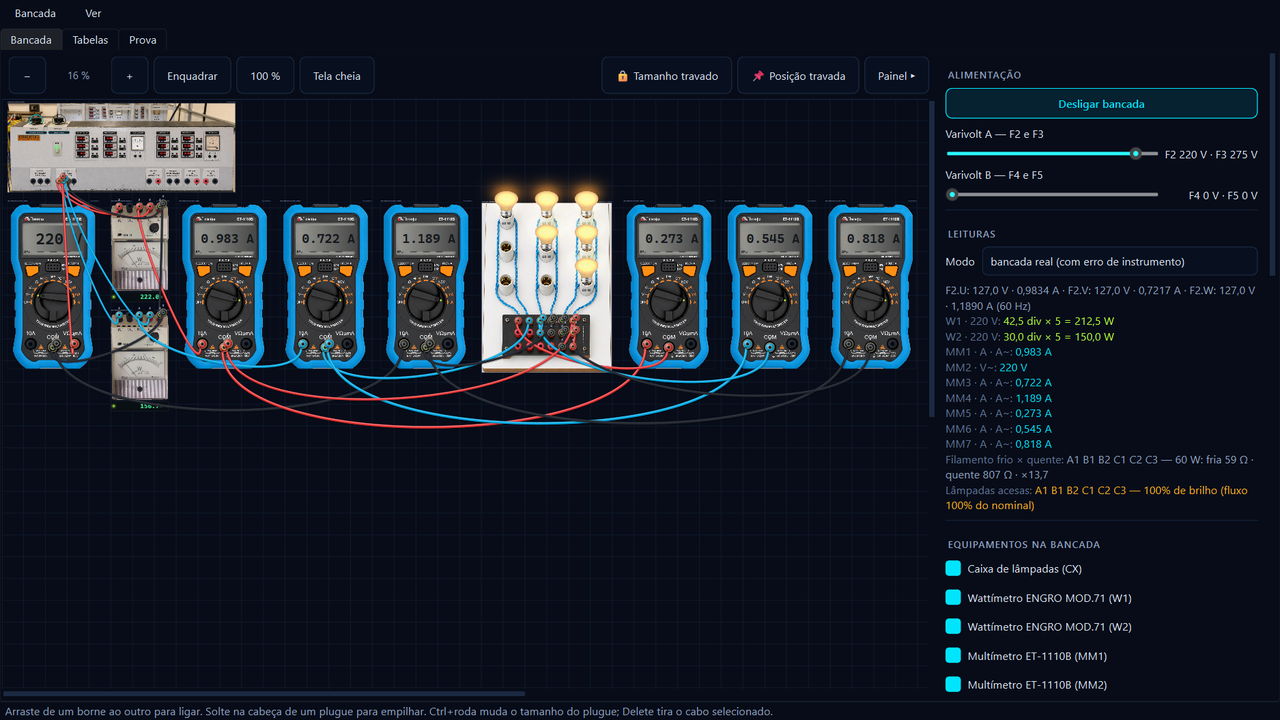
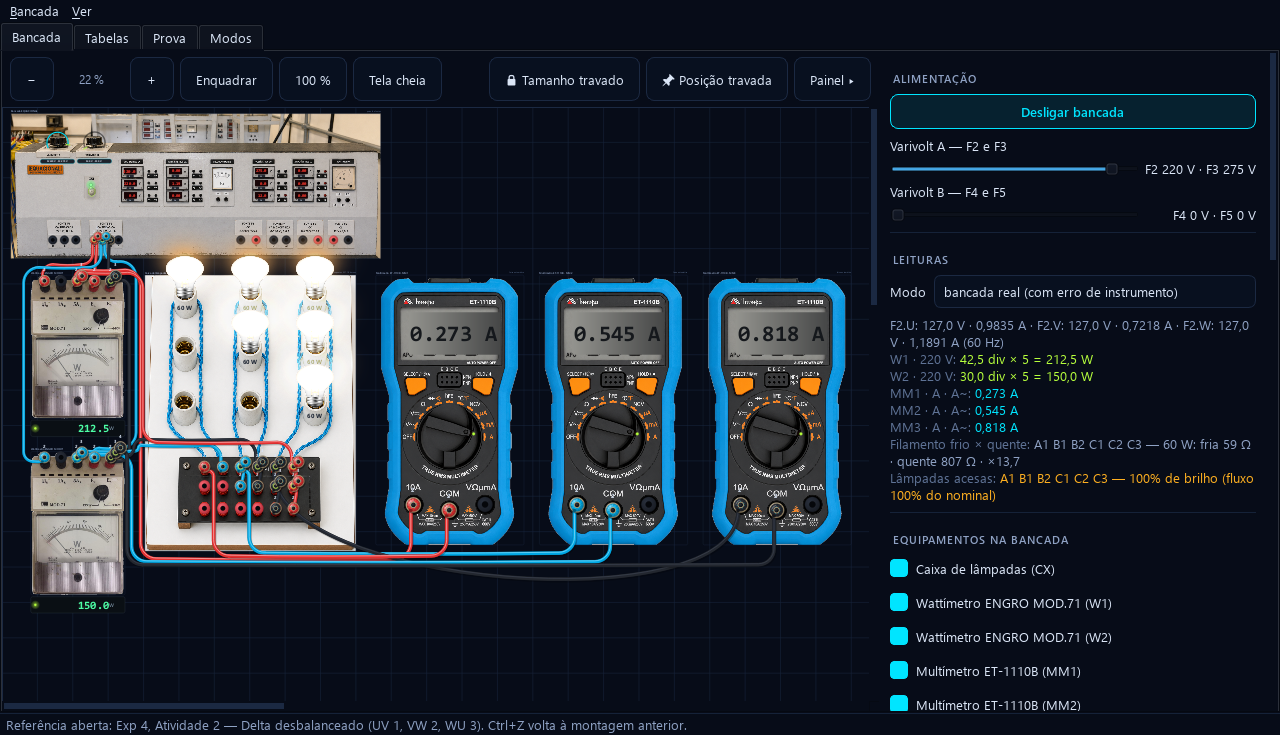
README com as novidades da 1.18.0: treino do zero, referências e a mesa arrumada
As duas capturas saem da 1.18.0 publicada. A principal é a referência da
Atividade 2 do Exp 4, com a mesa na ordem da figura e os cabos pelos
corredores — a antiga era de antes da aba Modos existir. A da aba Modos
mostra as três colunas e o progresso: o treino da captura antiga começava
com o delta montado, e na 1.18.0 o M09 começa da bancada vazia. O tamanho em
disco foi remedido na instalação da 1.18.0 (96 MB).

diff --git a/README.md b/README.md
@@ -4,13 +4,15 @@ A bancada do **Laboratório de Sistemas de Energia Elétrica (ENE0073)** na sua
 máquina: os mesmos equipamentos, os mesmos bornes, os mesmos instrumentos — e
 os cabos você pluga um a um, como faz na aula.
 
-![A bancada montada: delta desequilibrado do Experimento 4, energizado](img/bancada.png)
+![A referência da Atividade 2 do Experimento 4 — delta desbalanceado, energizado —, com os aparelhos na ordem da figura e os cabos pelos vãos entre eles](img/bancada.png)
 
 **[⬇ Baixar a última versão](../../releases/latest)** · Windows 64 bits · não
 pede administrador · funciona sem internet
 
-**Novo na 1.17.0:** a aba **Modos**, com 71 exercícios de bancada para a prova
-dos Experimentos 3 e 4 — [o que mudou](../../releases/tag/v1.17.0).
+**Novo na 1.18.0:** a aba **Modos** refeita — 35 dos 71 modos começam com a
+bancada vazia e os instrumentos numa prateleira, as montagens dos roteiros
+viram referência para comparar com a sua, e os cabos das montagens prontas
+passam pelos corredores entre os aparelhos — [o que mudou](../../releases/tag/v1.18.0).
 
 ---
 
@@ -35,7 +37,9 @@ pode dá exatamente o que daria na mesa.
 cabo por cabo como o desenho manda — estrela, delta, equilibrado,
 desequilibrado, neutro aterrado, correção de fator de potência, os
 transformadores. Serve para estudar a figura e serve para conferir a sua
-própria montagem contra ela.
+própria montagem contra ela. Nas dos Experimentos 3 e 4, os aparelhos ficam na
+ordem de leitura da figura, sem um cobrir o outro, e os cabos passam pelos vãos
+entre eles em vez de por cima de visor, mostrador ou bocal.
 
 **Medir.** Os multímetros são ET-1110B com as faixas do manual: a leitura sai
 com a resolução da faixa, mostra `OL` quando estoura e tem a incerteza
@@ -70,17 +74,37 @@ wattímetro ficou com uma bobina só.
 **Treinar para a prova dos Experimentos 3 e 4.** A aba *Modos* traz **71
 exercícios de bancada** em oito grupos — medições, identificação das fases,
 montagens, wattímetros, fator de potência, diagnóstico, tabelas e um simulado
-da P2. O exercício prepara a mesma bancada, diz o objetivo, e a correção vem
-quando você pede: ela olha o que cada aparelho está medindo pela ligação, e
-não pelo número do visor — um amperímetro antes da bifurcação do delta recebe
-«isso é corrente de linha». Nada da resposta aparece antes da tentativa. No
-guiado há dicas em degraus, até uma demonstração que depois se desfaz, e as
-marcas na mesa dizem o que marcam por cor, traço e ícone; no prático e no
-simulado — onze tarefas sorteadas, com a nota só na entrega —, não há dica.
-As leituras vão para um caderno com o antes e o depois, e o progresso fica
-guardado por habilidade.
+da P2. Treinar é montar: 35 deles começam com a bancada limpa e desligada —
+varivolts no zero, nenhum cabo, lâmpadas na bandeja, os multímetros da mesa em
+OFF —, e os instrumentos saem de uma prateleira no quadro do treino, por
+clique ou arrastando até a mesa. Você monta a carga, instala o medidor, regula
+a fonte e liga. Os outros começam com o circuito pronto, porque ali a montagem
+é a pergunta: os ramos a identificar, o erro plantado, a leitura a
+interpretar.
 
-![Um treino da aba Modos: medir a corrente de fase de um ramo do delta, com a dica que separa os cabos de linha dos cabos dos ramos](img/modos.png)
+A correção vem quando você pede, e olha o que cada aparelho está medindo pela
+ligação, e não pelo número do visor — um amperímetro antes da bifurcação do
+delta recebe «isso é corrente de linha». Nada da resposta aparece antes da
+tentativa. No guiado há dicas em degraus, até uma demonstração que depois se
+desfaz, e as marcas na mesa dizem o que marcam por cor, traço e ícone; no
+prático e no simulado — onze tarefas sorteadas, com a nota só na entrega —,
+não há dica. As leituras vão para um caderno com o antes e o depois.
+
+O progresso é cobertura de habilidades, não probabilidade de aprovação: cada
+item do Exp 3 e do Exp 4 aparece como não iniciado, em treino, consistente ou
+dominado, ao lado de onde você está errando e do próximo treino — com o botão
+que abre exatamente a variante que falta. Depois de entregar, **Comparar com
+referência** alterna a mesa entre a sua montagem e a do roteiro; e a última
+categoria da lista abre na bancada a montagem de cada atividade (Exp 3 e Exp 4,
+Atividades 1 a 3) só com os medidores do que se quer medir.
+
+«Analisar montagem com IA», nos modos do zero e fora da prova, passa cada
+conclusão por um validador que confere contra o que a bancada mede: «está tudo
+correto» numa montagem errada não aparece. A consulta à Maritaca de verdade ainda não foi
+conferida; sem chave — o caso de quem só instala —, quem responde é a
+validação elétrica local, e a tela diz isso.
+
+![A aba Modos: o modo pelo nome, o objetivo sorteado pela semente e, à direita, o progresso por item, onde se está errando e o próximo treino](img/modos.png)
 
 **Treinar do jeito difícil.** A aba *Prova* sorteia uma prova prática e corrige
 com nota; o *treino de diagnóstico* esconde um defeito na montagem e pede que
@@ -90,7 +114,8 @@ você o encontre medindo — sem olhar o painel, como na bancada.
 osciloscópio, o ensaio que identifica as fases — tire uma lâmpada com a
 bancada ligada e ele diz, pelas leituras, entre quais fases ela estava (na
 bancada real, só com autorização do professor) —, uma bandeja para as
-lâmpadas que saem do bocal, montagem salva em arquivo `.juan` e relatório em
+lâmpadas que saem do bocal, a lâmpada que se põe rosqueando — o contato só
+fecha quando ela assenta —, montagem salva em arquivo `.juan` e relatório em
 PDF.
 
 ## O que ele cobre
@@ -127,7 +152,7 @@ Vá em **[Releases](../../releases/latest)** e pegue um dos dois:
 | `SimuladorLABSEP-X.Y.Z-portatil.zip` | roda sem instalar — descompacte e abra o `.exe` |
 
 A instalação é na pasta do usuário: **não pede administrador** e não mexe no
-sistema. São cerca de 94 MB em disco. Instalar por cima de uma versão anterior
+sistema. São cerca de 96 MB em disco. Instalar por cima de uma versão anterior
 preserva ajustes, montagens salvas e calibração.
 
 O programa **não precisa de internet** para nada do que faz — a única coisa que
